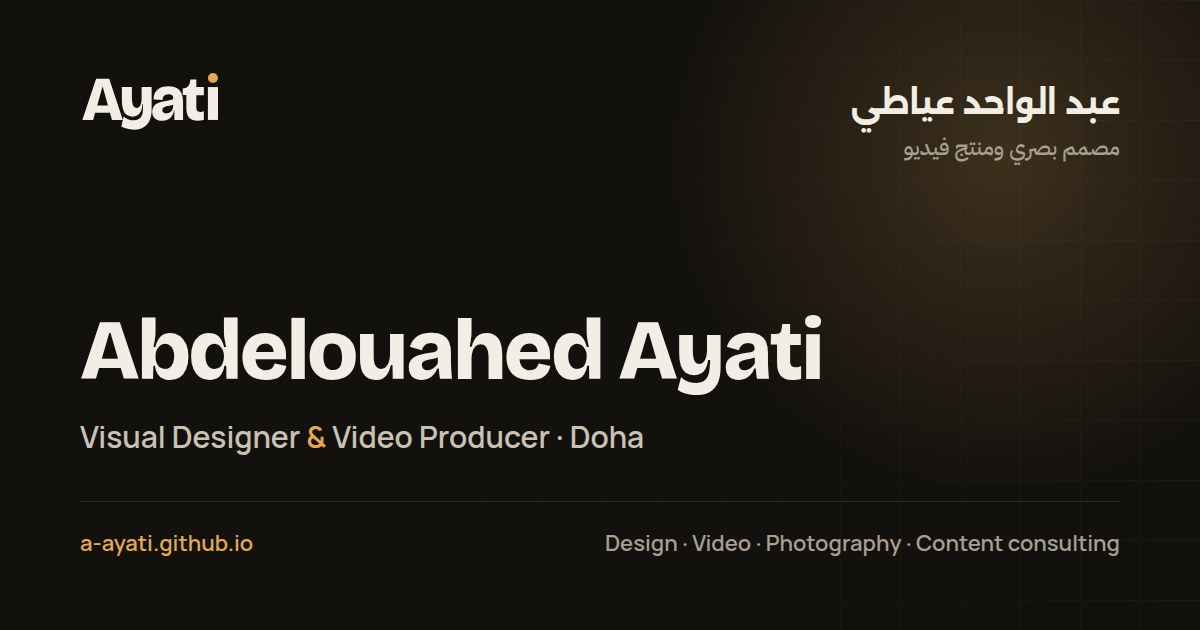
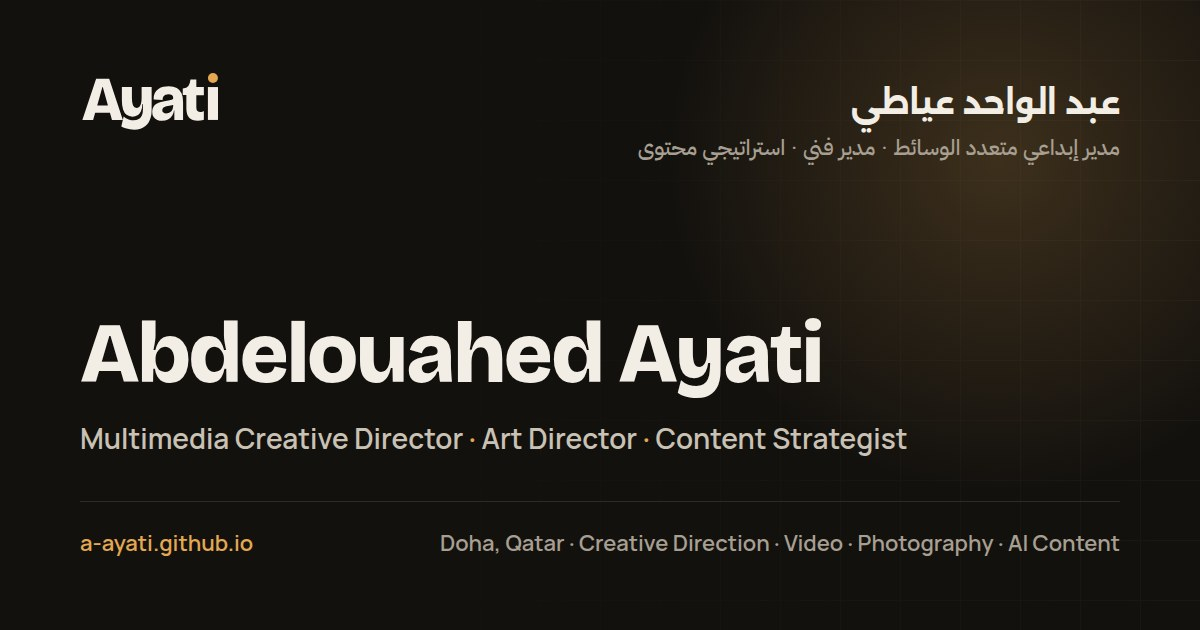
Match job titles to the CV: Multimedia Creative Director, Art Director, Content Strategist
Update the page title, meta/Open Graph descriptions, hero line (EN/AR),
languages (adds French) and the link-preview image.

Claude-Session: https://claude.ai/code/session_0134WgJFFmXtjxE91wmhckyd

diff --git a/index.html b/index.html
@@ -3,19 +3,19 @@
 <head>
 <meta charset="utf-8">
 <meta name="viewport" content="width=device-width, initial-scale=1, viewport-fit=cover">
-<title>Abdelouahed Ayati – Visual Designer &amp; Video Producer | Doha</title>
-<meta name="description" content="Visual designer, content creator and video producer in Doha with 8+ years of experience in design, photography and video for institutions, media and brands.">
+<title>Abdelouahed Ayati – Multimedia Creative Director, Art Director &amp; Content Strategist | Doha</title>
+<meta name="description" content="Multimedia creative director, art director and content strategist in Doha with 8+ years of experience in creative direction, video production, photography, design and AI-generated content for media, broadcasters, institutions and brands.">
[1 lines of base64/hex data omitted]
 <link rel="canonical" href="https://a-ayati.github.io/">
 <meta property="og:type" content="website">
 <meta property="og:url" content="https://a-ayati.github.io/">
 <meta property="og:site_name" content="Abdelouahed Ayati">
-<meta property="og:title" content="Abdelouahed Ayati – Visual Designer &amp; Video Producer | Doha">
-<meta property="og:description" content="Visual designer, content creator and video producer in Doha with 8+ years of experience in design, photography and video for institutions, media and brands.">
+<meta property="og:title" content="Abdelouahed Ayati – Multimedia Creative Director, Art Director &amp; Content Strategist | Doha">
+<meta property="og:description" content="Multimedia creative director, art director and content strategist in Doha with 8+ years of experience in creative direction, video production, photography, design and AI-generated content for media, broadcasters, institutions and brands.">
 <meta property="og:image" content="https://a-ayati.github.io/og-image.jpg">
 <meta property="og:image:width" content="1200">
 <meta property="og:image:height" content="630">
-<meta property="og:image:alt" content="Abdelouahed Ayati – Visual Designer &amp; Video Producer, Doha">
+<meta property="og:image:alt" content="Abdelouahed Ayati – Multimedia Creative Director, Art Director &amp; Content Strategist, Doha">
 <meta property="og:locale" content="en_US">
 <meta property="og:locale:alternate" content="ar_AR">
 <meta name="twitter:card" content="summary_large_image">
@@ -540,7 +540,7 @@ html[dir="rtl"] .ltr{ transform-origin: 2249px 770px; animation-name: ltr-out-rt
 <div class="view on" id="home">
   <div class="wrap hero" id="hero">
     <div>
-      <p class="who hero-fade"><span class="en">Abdelouahed Ayati, visual designer and video producer in Doha</span><span class="ar">عبد الواحد عياطي، مصمم بصري ومنتج فيديو في الدوحة</span></p>
+      <p class="who hero-fade"><span class="en">Abdelouahed Ayati, multimedia creative director, art director and content strategist in Doha</span><span class="ar">عبد الواحد عياطي، مدير إبداعي متعدد الوسائط، مدير فني واستراتيجي محتوى في الدوحة</span></p>
       <h1 class="split"><span class="en">Visual stories for institutions, media and brands.</span><span class="ar">قصص بصرية للمؤسسات والإعلام والعلامات التجارية.</span></h1>
       <p class="rot hero-fade" style="transition-delay:.5s">
         <span class="en">I make</span><span class="ar">أصنع</span>
@@ -710,7 +710,7 @@ html[dir="rtl"] .ltr{ transform-origin: 2249px 770px; animation-name: ltr-out-rt
       <div class="years rv"><span id="count">8</span>+</div>
       <div class="rv" style="--d:.1s">
         <p class="big"><span class="en">Years turning briefs into campaigns, videos and images people remember.</span><span class="ar">سنوات أحوّل فيها الأفكار إلى حملات وفيديوهات وصور لا تُنسى.</span></p>
-        <p class="lead"><span class="en">Based in Doha, working in Arabic and English with institutions, government bodies, media channels, NGOs and individuals across the region.</span><span class="ar">مقيم في الدوحة، أعمل بالعربية والإنجليزية مع المؤسسات والجهات الحكومية والقنوات الإعلامية والمنظمات والأفراد في المنطقة.</span></p>
+        <p class="lead"><span class="en">Based in Doha, working in Arabic, French and English with institutions, government bodies, media channels, NGOs and individuals across the region.</span><span class="ar">مقيم في الدوحة، أعمل بالعربية والفرنسية والإنجليزية مع المؤسسات والجهات الحكومية والقنوات الإعلامية والمنظمات والأفراد في المنطقة.</span></p>
       </div>
     </div>
   </section>
